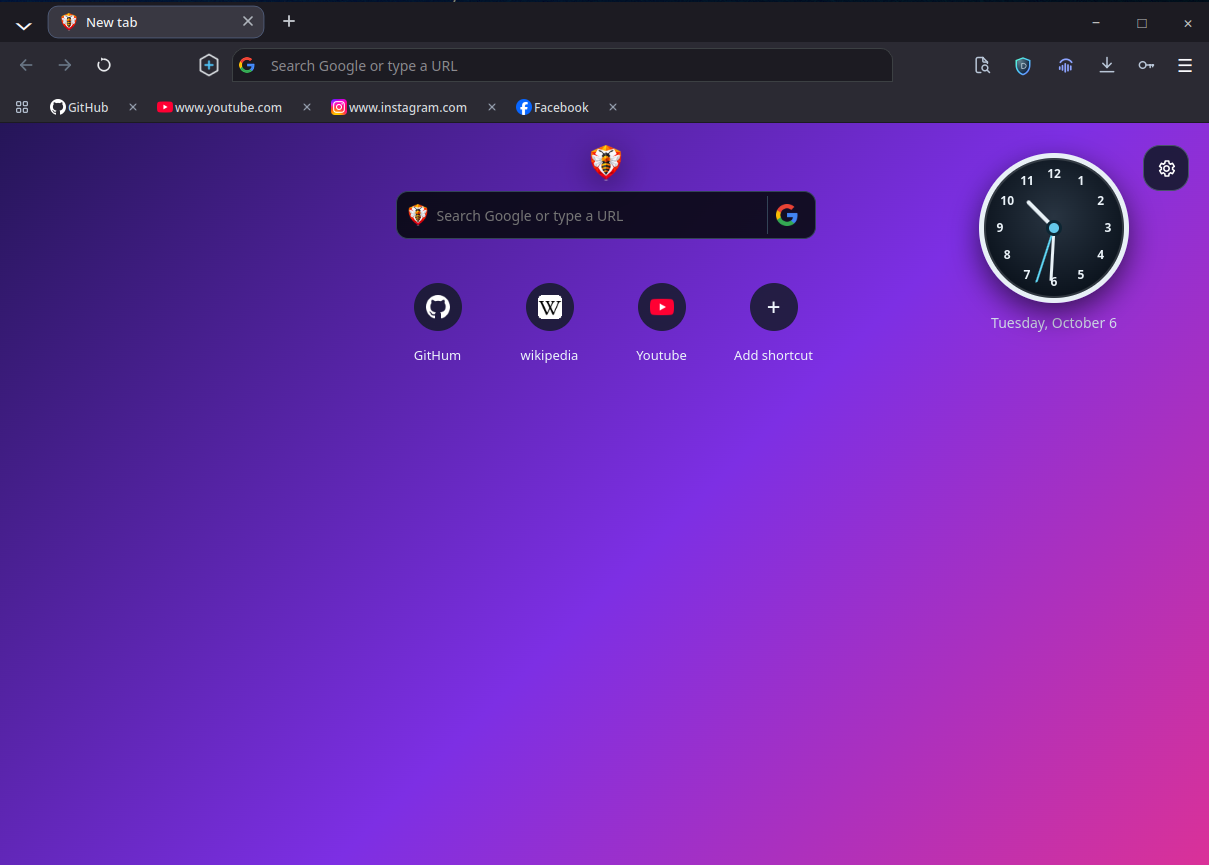
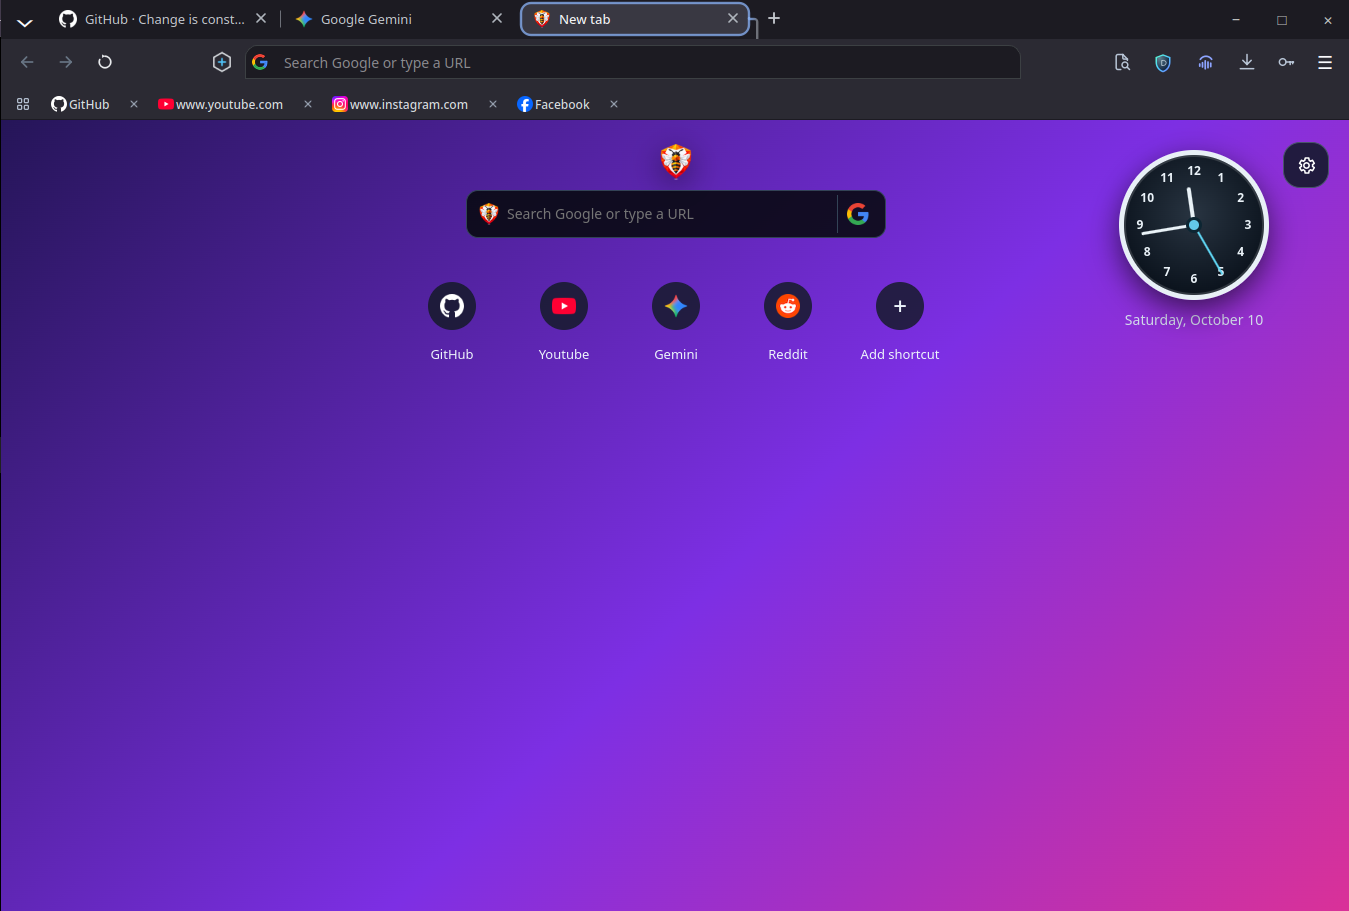
docs: final 8.0.0 screenshots and release date
- New Tab (docs/images/dalinira-browser.png, website hero-browser.png):
  retaken from the current build; the Quick Access label reads "GitHub".
- Downloads (docs/images/downloads.png, website downloads.png): retaken
  from the English interface; completed items read "Completed".
- Both are byte-identical copies of the maintainer's Dali12 1.png and
  7.png; the other five screenshots are unchanged.
- CHANGELOG: 8.0.0 release date 2026-10-11.

diff --git a/CHANGELOG.md b/CHANGELOG.md
@@ -2,7 +2,7 @@
 
 All notable release-facing changes to DaliNira Browser are documented here.
 
-## [8.0.0] - 2026-10-05
+## [8.0.0] - 2026-10-11
 
 ### Added
 
